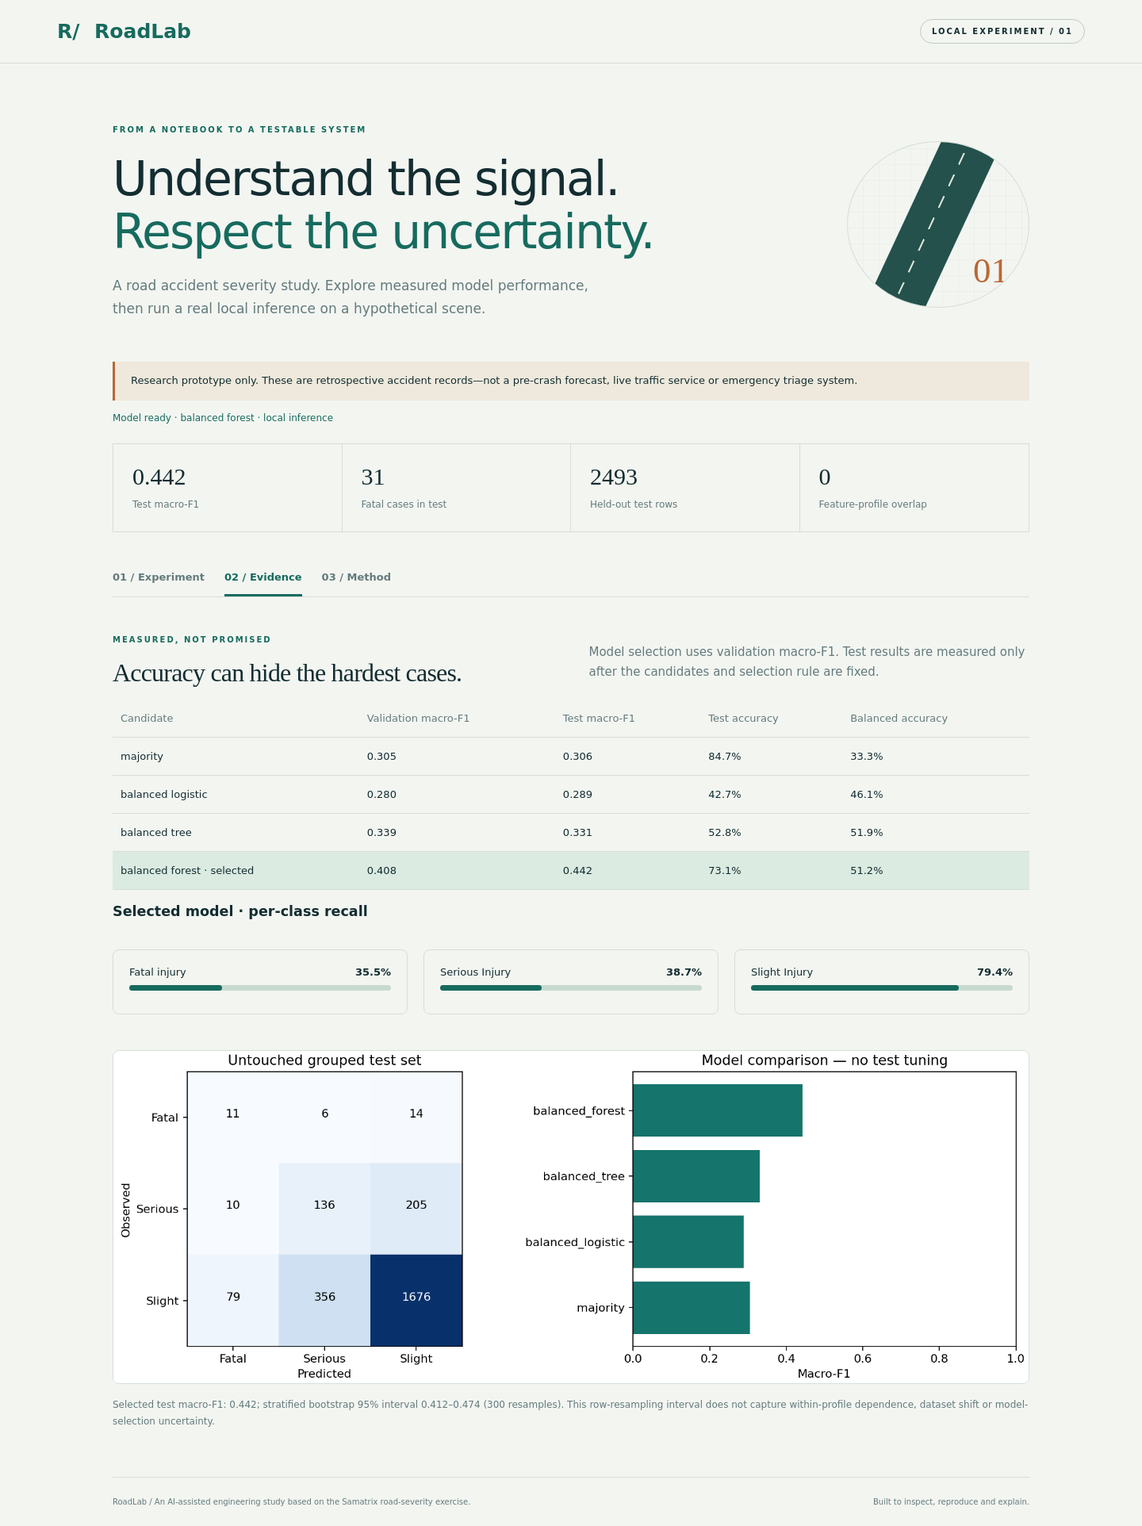
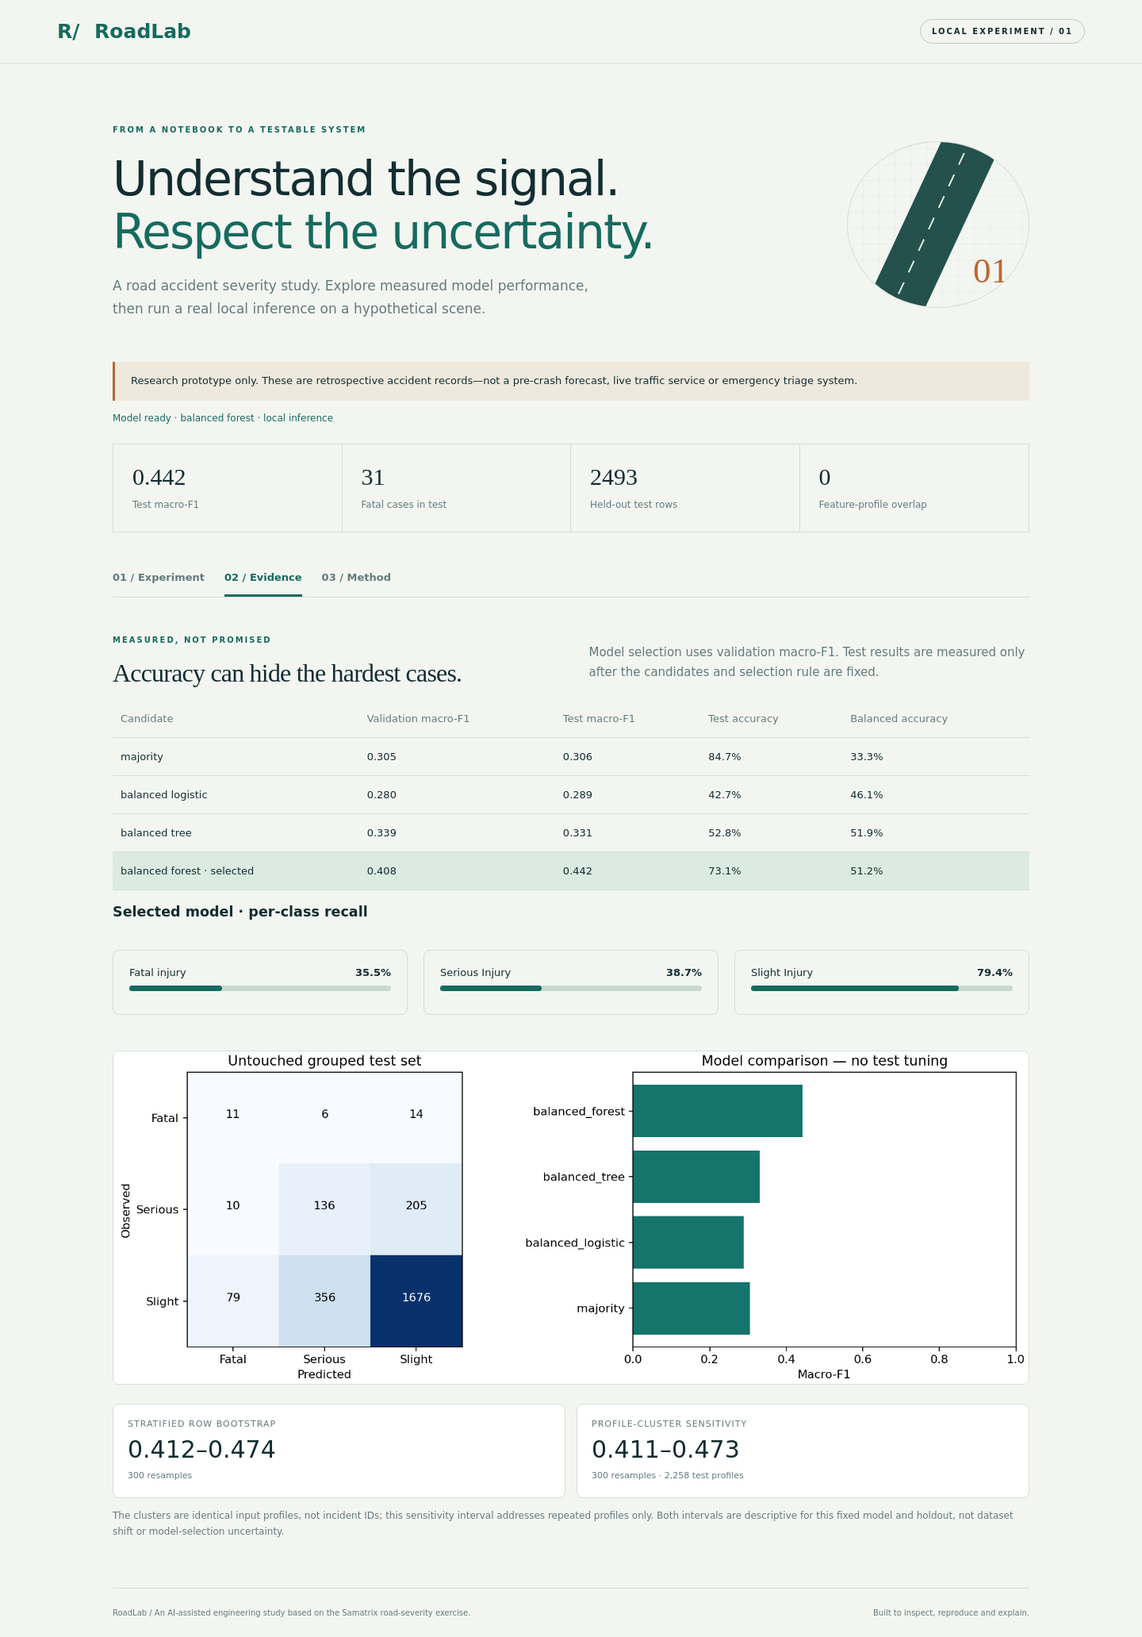
Show bootstrap intervals in Evidence tab

diff --git a/web/index.html b/web/index.html
@@ -1,1 +1,1 @@
-<!doctype html><html lang="en"><head><meta charset="UTF-8"><meta name="viewport" content="width=device-width,initial-scale=1"><title>RoadLab — Severity study</title><link rel="stylesheet" href="/static/style.css"></head><body><header><a class="brand" href="/">R/ <span>RoadLab</span></a><span class="chip">LOCAL EXPERIMENT / 01</span></header><main><section class="hero"><div><p class="eyebrow">FROM A NOTEBOOK TO A TESTABLE SYSTEM</p><h1>Understand the signal.<br><em>Respect the uncertainty.</em></h1><p class="lede">A road accident severity study. Explore measured model performance, then run a real local inference on a hypothetical scene.</p></div><div class="road" aria-hidden="true"><i></i><i></i><i></i><i></i><b>01</b></div></section><div class="notice">Research prototype only. These are retrospective accident records—not a pre-crash forecast, live traffic service or emergency triage system.</div><div id="status" role="status">Loading local model…</div><section class="metrics" id="metrics"></section><nav aria-label="Workspace views"><button class="active" data-tab="experiment">01 / Experiment</button><button data-tab="evaluation">02 / Evidence</button><button data-tab="method">03 / Method</button></nav><section id="experiment" class="tab"><div class="workspace"><div><p class="eyebrow">BUILD A SCENE</p><h2>A small change.<br>A different response?</h2><p>Inputs are constrained to categories observed in training. Missing means unknown, not an assumed average.</p><button id="example" class="secondary">Load training example</button><form id="form"><div class="fields" id="fields"></div><button class="primary" id="run">Run local inference <span>↗</span></button></form></div><aside><p class="eyebrow">MODEL RESPONSE</p><div id="result" aria-live="polite"><h3>Ready when you are.</h3><p>Choose a scene and run the model. No inputs leave this local server.</p></div><p class="small">Scores are uncalibrated model outputs. A larger score does not make the result reliable or suitable for an individual decision.</p></aside></div></section><section id="evaluation" class="tab" hidden><div class="section-head"><div><p class="eyebrow">MEASURED, NOT PROMISED</p><h2>Accuracy can hide the hardest cases.</h2></div><p>Model selection uses validation macro-F1. Test results are measured only after the candidates and selection rule are fixed.</p></div><div class="tablewrap"><table><thead><tr><th>Candidate</th><th>Validation macro-F1</th><th>Test macro-F1</th><th>Test accuracy</th><th>Balanced accuracy</th></tr></thead><tbody id="comparison"></tbody></table></div><h3>Selected model · per-class recall</h3><div id="recalls"></div><img src="/static/evaluation.png" alt="Confusion matrix and model comparison on the held-out grouped test set"><p id="interval" class="small"></p></section><section id="method" class="tab" hidden><p class="eyebrow">THE ENGINEERING CHOICES</p><h2>A model is only one part of the project.</h2><div class="methodgrid"><article><h3>01 / Prevent leakage</h3><p>Casualty severity, injury details, casualty counts and accident cause are excluded. Identical selected-feature profiles stay within a single split, even with conflicting labels.</p></article><article><h3>02 / Fit only on train</h3><p>Imputation, scaling and one-hot encoding live inside a scikit-learn Pipeline. Validation selects the model; the test split never trains it.</p></article><article><h3>03 / Examine weak classes</h3><p>Majority baseline, macro-F1, balanced accuracy, per-class recall, confusion matrix and a stratified bootstrap interval make imbalance visible.</p></article><article><h3>04 / Keep limits visible</h3><p>There is no independent temporal or geographic validation. This dataset is retrospective and rare fatal cases limit confidence. Do not use it for safety decisions.</p></article></div><pre id="provenance"></pre><a href="/docs">Explore the API contract ↗</a></section><footer>RoadLab / An AI-assisted engineering study based on the Samatrix road-severity exercise. <span>Built to inspect, reproduce and explain.</span></footer></main><script src="/static/app.js"></script></body></html>
+<!doctype html><html lang="en"><head><meta charset="UTF-8"><meta name="viewport" content="width=device-width,initial-scale=1"><title>RoadLab — Severity study</title><link rel="stylesheet" href="/static/style.css"></head><body><header><a class="brand" href="/">R/ <span>RoadLab</span></a><span class="chip">LOCAL EXPERIMENT / 01</span></header><main><section class="hero"><div><p class="eyebrow">FROM A NOTEBOOK TO A TESTABLE SYSTEM</p><h1>Understand the signal.<br><em>Respect the uncertainty.</em></h1><p class="lede">A road accident severity study. Explore measured model performance, then run a real local inference on a hypothetical scene.</p></div><div class="road" aria-hidden="true"><i></i><i></i><i></i><i></i><b>01</b></div></section><div class="notice">Research prototype only. These are retrospective accident records—not a pre-crash forecast, live traffic service or emergency triage system.</div><div id="status" role="status">Loading local model…</div><section class="metrics" id="metrics"></section><nav aria-label="Workspace views"><button class="active" data-tab="experiment">01 / Experiment</button><button data-tab="evaluation">02 / Evidence</button><button data-tab="method">03 / Method</button></nav><section id="experiment" class="tab"><div class="workspace"><div><p class="eyebrow">BUILD A SCENE</p><h2>A small change.<br>A different response?</h2><p>Inputs are constrained to categories observed in training. Missing means unknown, not an assumed average.</p><button id="example" class="secondary">Load training example</button><form id="form"><div class="fields" id="fields"></div><button class="primary" id="run">Run local inference <span>↗</span></button></form></div><aside><p class="eyebrow">MODEL RESPONSE</p><div id="result" aria-live="polite"><h3>Ready when you are.</h3><p>Choose a scene and run the model. No inputs leave this local server.</p></div><p class="small">Scores are uncalibrated model outputs. A larger score does not make the result reliable or suitable for an individual decision.</p></aside></div></section><section id="evaluation" class="tab" hidden><div class="section-head"><div><p class="eyebrow">MEASURED, NOT PROMISED</p><h2>Accuracy can hide the hardest cases.</h2></div><p>Model selection uses validation macro-F1. Test results are measured only after the candidates and selection rule are fixed.</p></div><div class="tablewrap"><table><thead><tr><th>Candidate</th><th>Validation macro-F1</th><th>Test macro-F1</th><th>Test accuracy</th><th>Balanced accuracy</th></tr></thead><tbody id="comparison"></tbody></table></div><h3>Selected model · per-class recall</h3><div id="recalls"></div><img src="/static/evaluation.png" alt="Confusion matrix and model comparison on the held-out grouped test set"><div id="interval" class="interval-grid" aria-label="Macro-F1 uncertainty intervals"></div><p id="interval-note" class="small"></p></section><section id="method" class="tab" hidden><p class="eyebrow">THE ENGINEERING CHOICES</p><h2>A model is only one part of the project.</h2><div class="methodgrid"><article><h3>01 / Prevent leakage</h3><p>Casualty severity, injury details, casualty counts and accident cause are excluded. Identical selected-feature profiles stay within a single split, even with conflicting labels.</p></article><article><h3>02 / Fit only on train</h3><p>Imputation, scaling and one-hot encoding live inside a scikit-learn Pipeline. Validation selects the model; the test split never trains it.</p></article><article><h3>03 / Examine weak classes</h3><p>Majority baseline, macro-F1, balanced accuracy, per-class recall, confusion matrix and a stratified bootstrap interval make imbalance visible.</p></article><article><h3>04 / Keep limits visible</h3><p>There is no independent temporal or geographic validation. This dataset is retrospective and rare fatal cases limit confidence. Do not use it for safety decisions.</p></article></div><pre id="provenance"></pre><a href="/docs">Explore the API contract ↗</a></section><footer>RoadLab / An AI-assisted engineering study based on the Samatrix road-severity exercise. <span>Built to inspect, reproduce and explain.</span></footer></main><script src="/static/app.js"></script></body></html>

diff --git a/web/app.js b/web/app.js
@@ -5,7 +5,7 @@ const pct=x=>(100*x).toFixed(1)+'%';
 const el=(tag,text)=>{const n=document.createElement(tag);n.textContent=text;return n};
 function scores(container,entries){container.replaceChildren();entries.forEach(([name,value])=>{const card=el('div','');card.className='score';const label=el('div','');label.append(el('span',name),el('strong',pct(value)));const track=el('div','');track.className='track';const bar=el('div','');bar.className='bar';bar.style.width=pct(value);track.append(bar);card.append(label,track);container.append(card)})}
 document.querySelectorAll('[data-tab]').forEach(button=>button.onclick=()=>{document.querySelectorAll('.tab').forEach(t=>t.hidden=t.id!==button.dataset.tab);document.querySelectorAll('[data-tab]').forEach(b=>b.classList.toggle('active',b===button))});
-async function init(){try{const response=await fetch('/api/metadata');if(!response.ok)throw Error('Model unavailable. Train the model, then restart the server.');meta=await response.json();const {schema,metrics:m}=meta;$('#status').textContent='Model ready · '+pretty(m.selected)+' · local inference';[['Test macro-F1',m.models[m.selected].test.macro_f1.toFixed(3)],['Fatal cases in test',m.split.class_counts.test['Fatal injury']],['Held-out test rows',m.split.rows.test],['Feature-profile overlap',m.split.profile_overlap]].forEach(([name,value])=>{const card=el('div','');card.className='metric';card.append(el('strong',value),el('span',name));$('#metrics').append(card)});schema.features.forEach(key=>{const label=el('label',pretty(key));let input;if(schema.categories[key]){input=el('select','');input.append(new Option('Unknown / missing',''));schema.categories[key].forEach(value=>input.append(new Option(value,value)))}else{input=el('input','');input.type='number';input.min=schema.numeric[key].min;input.max=schema.numeric[key].max;input.step='1';input.placeholder='Unknown';}input.name=key;label.append(input);$('#fields').append(label)});Object.entries(m.models).forEach(([name,report])=>{const row=el('tr','');if(name===m.selected)row.className='selected';[pretty(name)+(name===m.selected?' · selected':''),report.validation_macro_f1.toFixed(3),report.test.macro_f1.toFixed(3),pct(report.test.accuracy),pct(report.test.balanced_accuracy)].forEach(v=>row.append(el('td',v)));$('#comparison').append(row)});scores($('#recalls'),m.labels.map(label=>[label,m.models[m.selected].test.per_class[label].recall]));$('#interval').textContent='Selected test macro-F1: '+m.models[m.selected].test.macro_f1.toFixed(3)+'; stratified bootstrap 95% interval '+m.selected_macro_f1_bootstrap_95_ci.map(x=>x.toFixed(3)).join('–')+' ('+m.bootstrap_replicates+' resamples). This row-resampling interval does not capture within-profile dependence, dataset shift or model-selection uncertainty.';$('#provenance').textContent='Data: '+m.dataset.raw_rows+' raw records → '+m.dataset.unique_rows+' unique records.\nSplit: '+m.split.method+'; seed '+m.seed+'.\nTraining / validation / test: '+Object.values(m.split.rows).join(' / ')+'.\nDataset SHA-256: '+m.dataset.sha256;loadExample();}catch(error){$('#status').textContent=error.message;$('#run').disabled=true;}}
+async function init(){try{const response=await fetch('/api/metadata');if(!response.ok)throw Error('Model unavailable. Train the model, then restart the server.');meta=await response.json();const {schema,metrics:m}=meta;$('#status').textContent='Model ready · '+pretty(m.selected)+' · local inference';[['Test macro-F1',m.models[m.selected].test.macro_f1.toFixed(3)],['Fatal cases in test',m.split.class_counts.test['Fatal injury']],['Held-out test rows',m.split.rows.test],['Feature-profile overlap',m.split.profile_overlap]].forEach(([name,value])=>{const card=el('div','');card.className='metric';card.append(el('strong',value),el('span',name));$('#metrics').append(card)});schema.features.forEach(key=>{const label=el('label',pretty(key));let input;if(schema.categories[key]){input=el('select','');input.append(new Option('Unknown / missing',''));schema.categories[key].forEach(value=>input.append(new Option(value,value)))}else{input=el('input','');input.type='number';input.min=schema.numeric[key].min;input.max=schema.numeric[key].max;input.step='1';input.placeholder='Unknown';}input.name=key;label.append(input);$('#fields').append(label)});Object.entries(m.models).forEach(([name,report])=>{const row=el('tr','');if(name===m.selected)row.className='selected';[pretty(name)+(name===m.selected?' · selected':''),report.validation_macro_f1.toFixed(3),report.test.macro_f1.toFixed(3),pct(report.test.accuracy),pct(report.test.balanced_accuracy)].forEach(v=>row.append(el('td',v)));$('#comparison').append(row)});scores($('#recalls'),m.labels.map(label=>[label,m.models[m.selected].test.per_class[label].recall]));const intervalCard=(title,bounds,detail)=>{const card=el('div','');card.className='interval-card';card.append(el('span',title),el('strong',bounds.map(x=>x.toFixed(3)).join('–')),el('small',detail));return card};const profile=m.profile_cluster_bootstrap;$('#interval').replaceChildren(intervalCard('Stratified row bootstrap',m.selected_macro_f1_bootstrap_95_ci,m.bootstrap_replicates+' resamples'),intervalCard('Profile-cluster sensitivity',profile.interval,profile.replicates+' resamples · '+profile.test_profile_groups.toLocaleString('en-US')+' test profiles'));$('#interval-note').textContent='The clusters are identical input profiles, not incident IDs; this sensitivity interval addresses repeated profiles only. Both intervals are descriptive for this fixed model and holdout, not dataset shift or model-selection uncertainty.';$('#provenance').textContent='Data: '+m.dataset.raw_rows+' raw records → '+m.dataset.unique_rows+' unique records.\nSplit: '+m.split.method+'; seed '+m.seed+'.\nTraining / validation / test: '+Object.values(m.split.rows).join(' / ')+'.\nDataset SHA-256: '+m.dataset.sha256;loadExample();}catch(error){$('#status').textContent=error.message;$('#run').disabled=true;}}
 function loadExample(){if(!meta)return;const sample=meta.examples[example++%meta.examples.length];Object.entries(sample).forEach(([key,value])=>{$('#form').elements[key].value=value??''});}
 $('#example').onclick=loadExample;
 $('#form').onsubmit=async event=>{event.preventDefault();const record={};for(const key of meta.schema.features){const value=$('#form').elements[key].value;record[key]=value===''?null:meta.schema.numeric[key]?Number(value):value;}$('#run').disabled=true;$('#result').textContent='Running…';try{const response=await fetch('/api/predict',{method:'POST',headers:{'Content-Type':'application/json'},body:JSON.stringify({records:[record]})});const data=await response.json();if(!response.ok)throw Error(typeof data.detail==='string'?data.detail:JSON.stringify(data.detail));const prediction=data.predictions[0];$('#result').replaceChildren(el('h3',prediction.label),el('p','Highest-scoring class, not a verified outcome.'));const bars=el('div','');scores(bars,Object.entries(prediction.scores));$('#result').append(bars);}catch(error){$('#result').textContent=error.message;}finally{$('#run').disabled=false;}};

diff --git a/web/style.css b/web/style.css
@@ -1,1 +1,8 @@
 :root{--ink:#132d31;--muted:#637a7c;--bg:#f3f5f1;--line:#d4dfd9;--green:#166b5e;--mint:#dbebe1;--orange:#b96834}*{box-sizing:border-box}body{margin:0;background:var(--bg);color:var(--ink);font:15px 'DM Sans',system-ui,sans-serif}header{padding:24px 5%;display:flex;justify-content:space-between;align-items:center;border-bottom:1px solid var(--line)}a{color:var(--green)}.brand{text-decoration:none;font:800 25px Manrope,system-ui}.brand span{margin-left:10px}.chip,.eyebrow{font-size:10px;font-weight:700;letter-spacing:2px}.chip{border:1px solid #bccbc2;border-radius:30px;padding:9px 14px}main{max-width:1300px;margin:auto;padding:0 5%}.hero{display:flex;justify-content:space-between;gap:35px;align-items:center;padding:65px 0 35px}.eyebrow{color:var(--green)}h1{font:500 clamp(36px,4.5vw,60px)/1.12 Manrope,system-ui;letter-spacing:-2px;margin:20px 0}h1 em{font-style:normal;color:var(--green)}.lede{max-width:630px;font-size:17px;line-height:1.7;color:var(--muted)}.road{width:230px;height:210px;border:1px solid var(--line);border-radius:50%;position:relative;overflow:hidden;background:repeating-linear-gradient(0deg,transparent,transparent 19px,#e4eae3 20px),repeating-linear-gradient(90deg,transparent,transparent 19px,#e4eae3 20px)}.road:before{content:'';position:absolute;left:70px;top:-40px;width:70px;height:300px;transform:rotate(25deg);background:#24514c}.road:after{content:'';position:absolute;left:101px;top:-40px;width:2px;height:300px;transform:rotate(25deg);background:repeating-linear-gradient(0deg,#e1eadc 0,#e1eadc 16px,transparent 16px,transparent 30px)}.road b{position:absolute;right:25px;bottom:20px;font:500 45px Manrope;color:var(--orange);z-index:1}.notice{border-left:3px solid var(--orange);padding:14px 20px;background:#eee9dc;line-height:1.6;font-size:13px}.metrics{display:grid;grid-template-columns:repeat(4,1fr);border:1px solid var(--line);margin:25px 0 35px}.metric{padding:24px;border-right:1px solid var(--line)}.metric:last-child{border:0}.metric strong{display:block;font:500 30px Manrope;margin-bottom:8px}.metric span,.small{color:var(--muted);font-size:12px;line-height:1.7}nav{border-bottom:1px solid var(--line);display:flex;gap:25px;margin-bottom:35px}button{cursor:pointer;font:600 13px 'DM Sans',system-ui}nav button{border:0;background:none;padding:14px 0;color:var(--muted);border-bottom:3px solid transparent}nav button.active{border-color:var(--green);color:var(--green)}.workspace{display:grid;grid-template-columns:1.6fr 1fr;gap:50px}h2{font:500 32px/1.2 Manrope;letter-spacing:-.8px;margin:14px 0}p{line-height:1.7;color:var(--muted)}.fields{display:grid;grid-template-columns:1fr 1fr;gap:20px;margin:25px 0}label{display:flex;flex-direction:column;gap:8px;font-size:12px;font-weight:600}select,input{width:100%;border:1px solid #bdcdc4;background:#fff;border-radius:5px;padding:12px;color:var(--ink);font:14px 'DM Sans',system-ui}.primary,.secondary{border-radius:5px;padding:13px 20px}.primary{display:flex;width:100%;justify-content:space-between;background:var(--green);border:1px solid var(--green);color:white}.primary:disabled{opacity:.5}.secondary{background:transparent;border:1px solid #a6bdb0;color:var(--green)}aside{background:#e4ece5;padding:28px;border-radius:10px;align-self:start;position:sticky;top:20px}aside h3{font:500 27px Manrope;line-height:1.3}#result{min-height:210px}.score{margin:20px 0}.score div{display:flex;justify-content:space-between;font-size:13px;margin-bottom:9px}.track{height:7px;background:#c8dacf;border-radius:10px}.bar{height:7px;background:var(--green);border-radius:10px}.tablewrap{overflow-x:auto}table{border-collapse:collapse;width:100%;font-size:13px}td,th{text-align:left;border-bottom:1px solid var(--line);padding:16px 10px}th{color:var(--muted);font-weight:500}tr.selected td{background:var(--mint)}.section-head{display:flex;gap:45px;align-items:center}.section-head>div{flex:1}.section-head>p{flex:1}img{width:100%;border:1px solid var(--line);border-radius:8px;margin-top:25px}#recalls{display:grid;grid-template-columns:repeat(3,1fr);gap:20px}#recalls .score{padding:20px;border:1px solid var(--line);border-radius:8px}.methodgrid{display:grid;grid-template-columns:1fr 1fr;gap:25px}.methodgrid article{background:white;padding:25px;border:1px solid var(--line);border-radius:8px}.methodgrid h3{font:600 18px Manrope}pre{white-space:pre-wrap;word-break:break-word;background:#e4ece5;padding:20px;line-height:1.7;font-size:12px}footer{border-top:1px solid var(--line);margin-top:60px;padding:25px 0;font-size:10px;color:var(--muted);display:flex;justify-content:space-between;gap:20px}#status{font-size:12px;margin-top:15px;color:var(--green)}[hidden]{display:none!important}@media(max-width:700px){header{padding:18px 5%}.chip{font-size:8px;letter-spacing:1px}.hero{padding-top:35px}.road{display:none}h1{letter-spacing:-1px}.metrics{grid-template-columns:1fr 1fr}.metric{padding:16px;border-bottom:1px solid var(--line)}.metric strong{font-size:24px}.workspace{grid-template-columns:1fr;gap:25px}aside{position:static}nav{gap:16px}nav button{font-size:11px}.fields{gap:14px}.section-head{display:block}.methodgrid{grid-template-columns:1fr}#recalls{grid-template-columns:1fr;gap:0}footer{display:block}.lede{font-size:15px}}
+
+.interval-grid{display:grid;grid-template-columns:repeat(2,minmax(0,1fr));gap:14px;margin:20px 0 12px}
+.interval-card{display:grid;gap:8px;background:#fff;border:1px solid var(--line);border-radius:8px;padding:18px}
+.interval-card span{font-size:11px;color:var(--muted);text-transform:uppercase;letter-spacing:1px}
+.interval-card strong{font:500 clamp(22px,3vw,30px) Manrope,system-ui;color:var(--ink)}
+.interval-card small{font-size:11px;color:var(--muted);line-height:1.5}
+@media(max-width:700px){.interval-grid{grid-template-columns:1fr}}

diff --git a/scripts/check_ui.py b/scripts/check_ui.py
@@ -21,6 +21,13 @@ with sync_playwright() as p:
     page.locator('[data-tab=evaluation]').click()
     assert page.locator('#evaluation').is_visible()
     assert page.locator('#comparison tr').count() == 4
+    assert page.locator('#interval .interval-card').count() == 2
+    interval_cards = page.locator('#interval .interval-card')
+    assert 'stratified row bootstrap' in interval_cards.nth(0).inner_text().lower()
+    assert '300 resamples' in interval_cards.nth(0).inner_text()
+    assert 'profile-cluster sensitivity' in interval_cards.nth(1).inner_text().lower()
+    assert '2,258 test profiles' in interval_cards.nth(1).inner_text()
+    assert 'not incident IDs' in page.locator('#interval-note').inner_text()
     page.screenshot(path='docs/evidence.png', full_page=True)
     page.locator('[data-tab=method]').click()
     assert page.locator('#method').is_visible()

diff --git a/tests/test_contract.py b/tests/test_contract.py
@@ -96,6 +96,16 @@ def test_openapi_documents_batch_limits():
     assert records["minItems"] == 1
     assert records["maxItems"] == 100
 
+
+def test_metadata_reports_both_bootstrap_intervals():
+    metrics = client.get("/api/metadata").json()["metrics"]
+    profile = metrics["profile_cluster_bootstrap"]
+
+    assert len(metrics["selected_macro_f1_bootstrap_95_ci"]) == 2
+    assert profile["interval"] == metrics["selected_macro_f1_profile_cluster_bootstrap_95_ci"]
+    assert profile["replicates"] == metrics["bootstrap_replicates"] == 300
+    assert profile["test_profile_groups"] == 2258
+
 def test_profile_cluster_bootstrap_is_reproducible():
     import numpy as np
     from roadlab.train import profile_cluster_bootstrap_macro_f1
